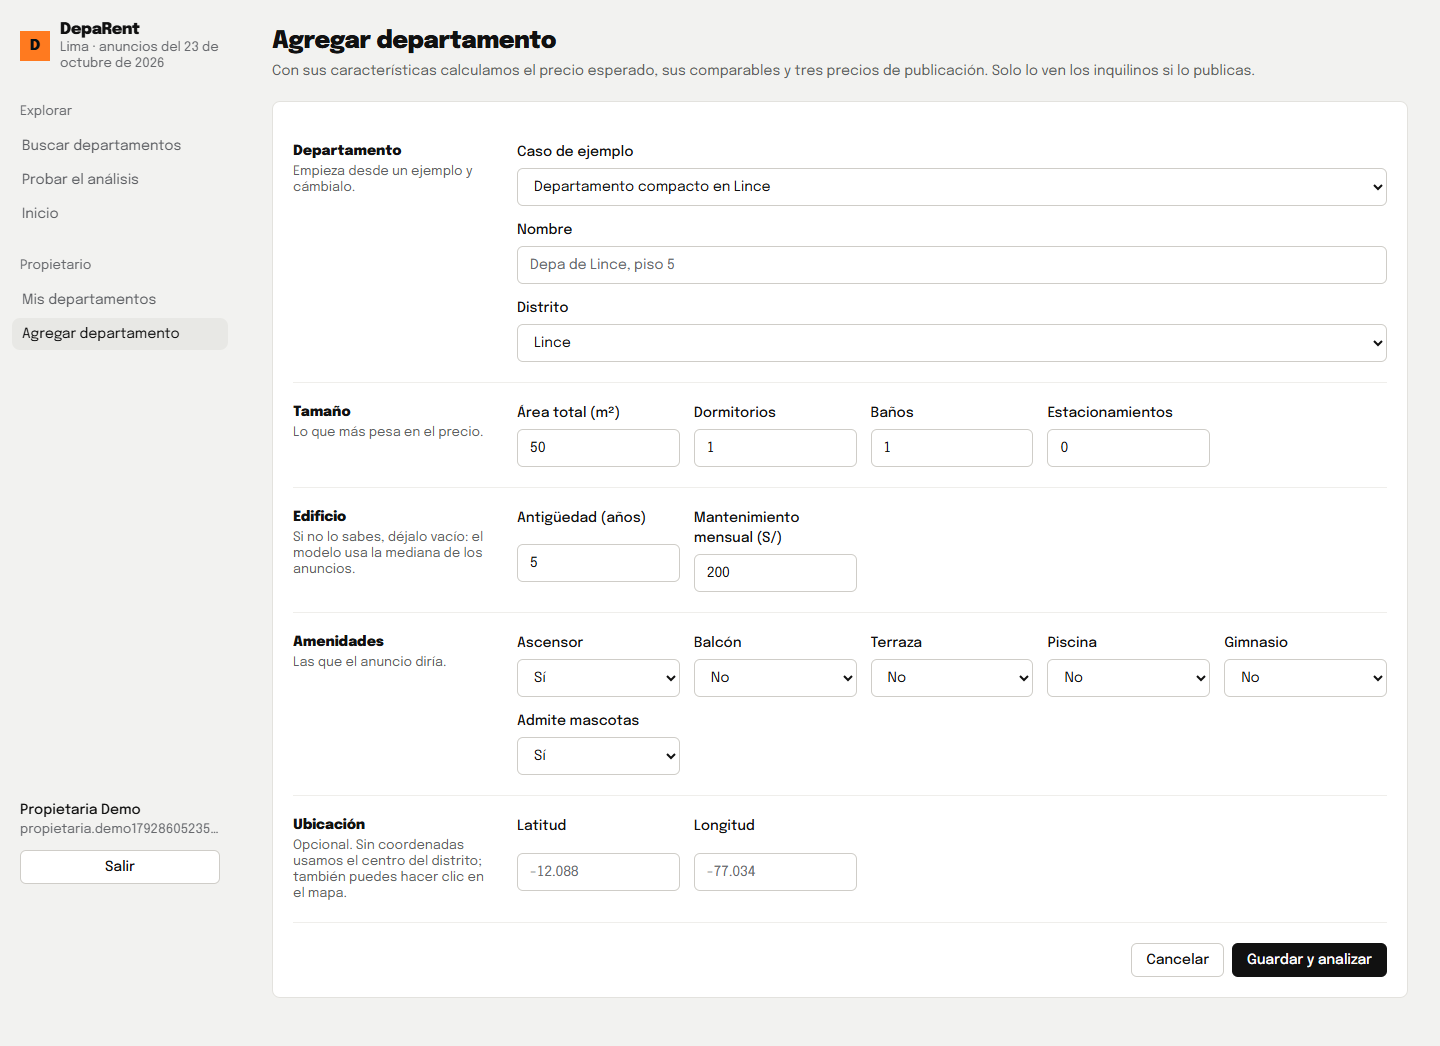
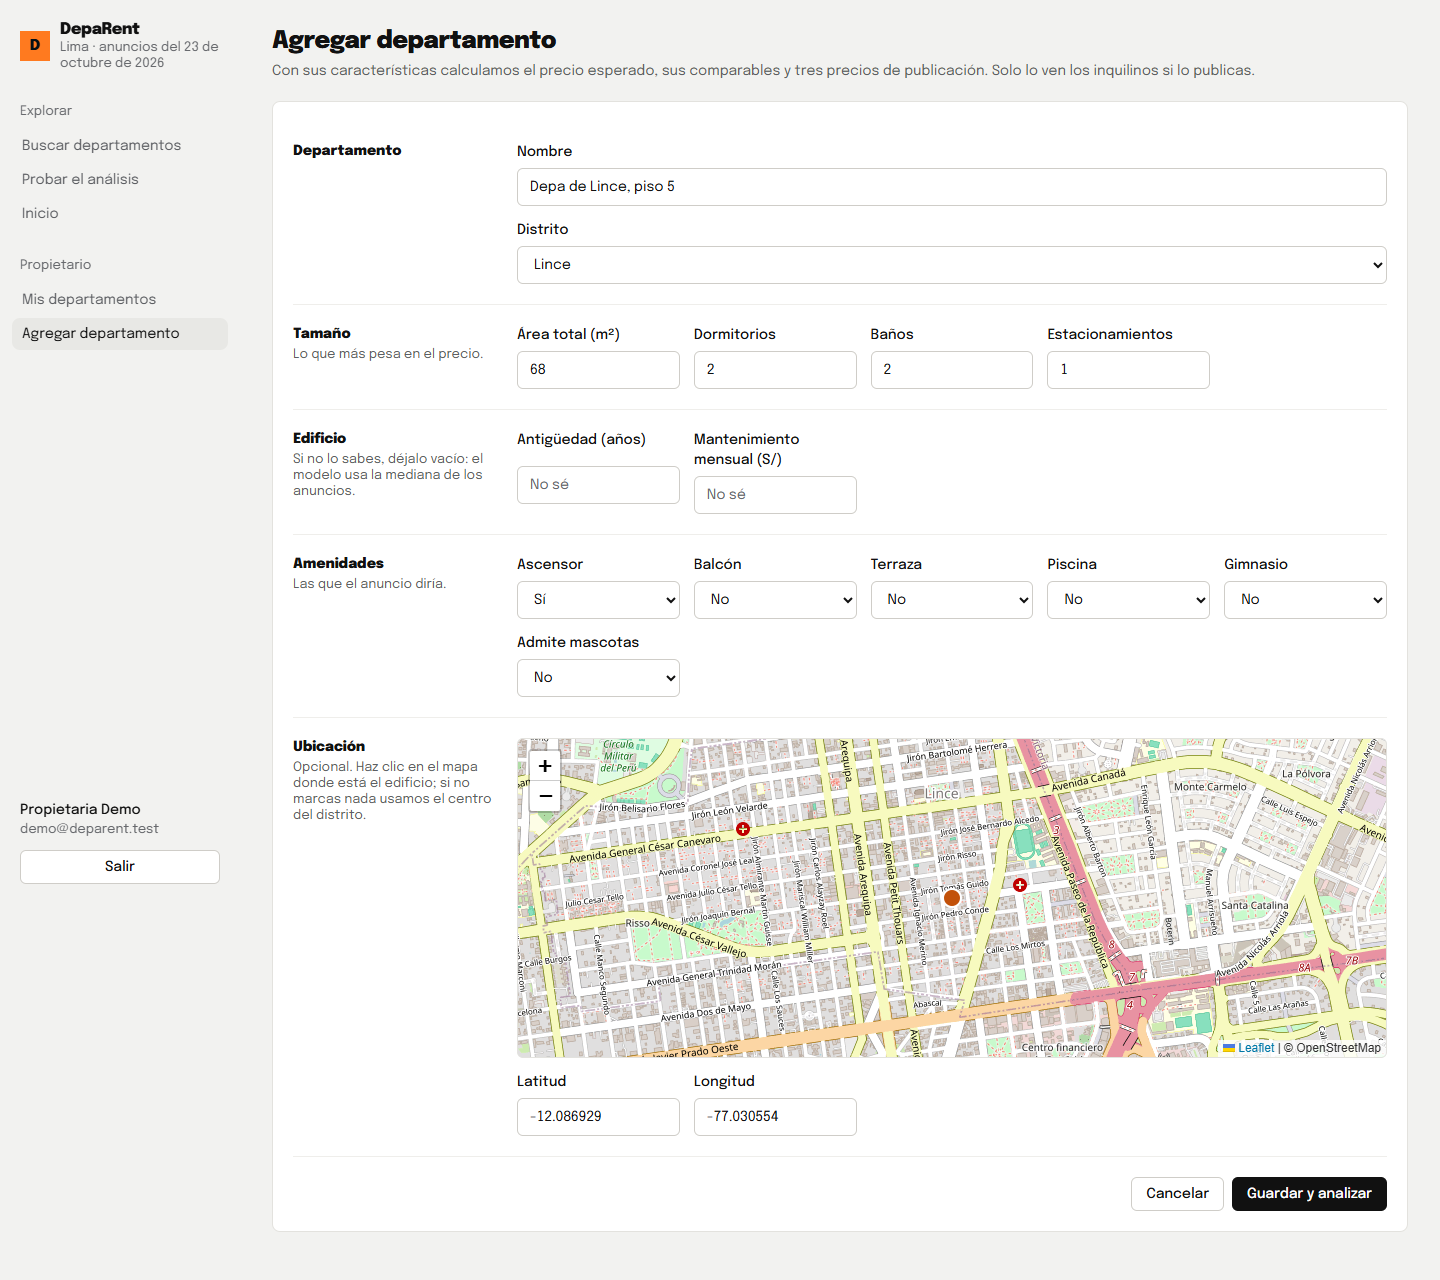
docs(week10): completar el reporte del prototipo, la URL desplegada y las capturas nuevas
PrototypeReport.md pasa de plantilla a reporte: funcionalidades, arquitectura, métricas, el ejercicio de Lince,
limitaciones (incluido el bloqueo 403 de la descarga diaria), desafíos y trabajo pendiente. README y
deployed_url.txt documentan Neon y DATABASE_URL.

diff --git a/deliveries/week10/PrototypeReport.md b/deliveries/week10/PrototypeReport.md
@@ -1,56 +1,139 @@
 # Prototype Report — DepaRent (Semana 10)
 
+Prototipo desplegado: **https://deparent.onrender.com** · Código: `deliveries/week10/` · Fecha de este reporte: 25-oct-2026.
+
 ## 1. Resumen
-_2–3 párrafos: qué demuestra el prototipo, con qué datos y qué flujo principal cubre._
+DepaRent responde la pregunta que se hace un propietario de Lima antes de publicar su departamento: **¿a cuánto lo
+alquilo?** El propietario describe el departamento (distrito, área, dormitorios, baños, estacionamientos, antigüedad,
+mantenimiento, amenidades y ubicación) y recibe un precio esperado con su rango, los anuncios más parecidos, la
+accesibilidad a transporte, la tendencia del distrito y tres precios de publicación. Puede guardar sus
+departamentos, publicarlos al precio que elija y recibir mensajes de inquilinos interesados.
+
+Del otro lado, un inquilino busca entre los anuncios del mercado y los publicados en DepaRent, con filtros por
+distrito, presupuesto, tamaño, amenidades y cercanía a paraderos, y ve en cada resultado si el precio pedido está
+por debajo, en línea o por encima de lo que estima el modelo.
+
+El prototipo trabaja con datos reales: 3,128 anuncios de Adondevivir y Urbania capturados el 14-sep-2026 (entrenamiento),
+un mercado de 3,055 anuncios únicos capturado el 23-oct-2026 (lo que ve la app), los paraderos de la ATU y 13 series
+trimestrales de precios del BCRP. El flujo principal completo (describir → analizar → guardar → publicar → ser
+encontrado → recibir un mensaje) funciona en la versión publicada.
 
 ## 2. Funcionalidades implementadas
-_Solo lo que realmente funciona hoy._
+Todo lo listado funciona hoy en la versión desplegada; las capturas están en `screenshots/`.
 
-| Funcionalidad | Estado | Ubicación |
-|---|---|---|
-| Entrada de características del inmueble | ☐ | `code/app.py`, `templates/` |
-| Preprocesamiento | ☐ | |
-| Perfil competitivo (K-Means) | ☐ | |
-| Accesibilidad (ATU) | ☐ | |
-| Precio esperado (HistGradientBoosting) | ☐ | `models/` |
-| Visualización de resultados | ☐ | |
+| Funcionalidad | Estado | Ubicación | Captura |
+|---|:-:|---|---|
+| Página de inicio con estimador en vivo, carta de alquileres y equipo | ☑ | `frontend/js/inicio.js` | `01`, `14` |
+| Registro, inicio de sesión y cierre de sesión de propietarios | ☑ | `code/cuentas.py`, `frontend/js/vistas.js` | `05` |
+| Agregar, editar y eliminar departamentos, con ubicación elegida en un mapa | ☑ | `frontend/js/formulario.js` | `06`, `07`, `13` |
+| Preprocesamiento (mismas reglas que la Semana 7) | ☑ | `code/preprocesar.py` | — |
+| 1 · Perfil competitivo (K-Means, k=4) y 8 comparables | ☑ | `code/perfil_competitivo.py` | `09` |
+| 2 · Accesibilidad a paraderos ATU (cKDTree) y mapa | ☑ | `code/accesibilidad.py` | `10` |
+| 3 · Precio esperado (HistGradientBoosting) con rango al 90 % | ☑ | `code/modelo.py`, `models/modelo_docente.joblib` | `08` |
+| 4 · Tendencia distrital (SARIMA sobre el BCRP) | ☑ | `code/tendencia.py` | `11` |
+| 5 · Tres precios de publicación (competitivo, equilibrado, renta superior) | ☑ | `code/escenarios_precio.py` | `08` |
+| 6 · Simulador de mejoras y exploración del área | ☑ | `code/escenarios.py`, `code/laboratorio_area.py` | `12` |
+| Publicar y retirar un departamento | ☑ | `code/api.py` | `18` |
+| Búsqueda para inquilinos con valoración del precio | ☑ | `code/busqueda.py` | `02`, `03`, `15` |
+| Ficha de anuncio con comparables y enlace al original | ☑ | `frontend/js/anuncio.js` | `17`, `20` |
+| «Me interesa»: el mensaje llega al propietario | ☑ | `code/cuentas.py` | `18`, `19` |
+| Prueba sin cuenta con tres casos de ejemplo | ☑ | `#/probar` | `04` |
+| Validación temporal con el mercado de octubre | ☑ | `code/validar_octubre.py`, `resultados/validacion_octubre/` | — |
+| Despliegue en Render con base de datos persistente (Postgres en Neon) | ☑ | `render.yaml`, `code/cuentas.py` | — |
+| Actualización diaria del mercado con GitHub Actions | ◐ | `.github/workflows/actualizar-mercado.yml` | ver §5 |
 
 ## 3. Arquitectura del sistema
 ```mermaid
 flowchart LR
-    U[Propietario] --> F[Frontend Flask / HTML]
-    F --> B[Backend app.py]
-    B --> P[Preprocesamiento]
-    P --> M1[K-Means]
-    P --> M2[Accesibilidad cKDTree]
-    P --> M3[HistGradientBoosting]
-    D[(data/)] --> P
-    MD[(models/)] --> M1
-    MD --> M3
-    M1 --> R[Resultado]
-    M2 --> R
-    M3 --> R
-    R --> F
+    P[Propietario] --> F
+    I[Inquilino] --> F
+    F["frontend/ · HTML + CSS + JS en módulos + Leaflet"] -- fetch JSON --> A["code/api.py · FastAPI"]
+    A --> PRE[preprocesar.py]
+    PRE --> M1[1 · K-Means + vecinos]
+    PRE --> M2[2 · Accesibilidad cKDTree]
+    PRE --> M3[3 · HistGradientBoosting]
+    M3 --> M4[4 · SARIMA BCRP]
+    M1 & M3 & M4 --> M5[5 · Precios de publicación]
+    M3 --> M6[6 · Simulador de mejoras]
+    A --> B[busqueda.py · mercado + publicados]
+    A --> C[cuentas.py]
+    C --> DB[("Postgres (Neon) en producción · SQLite en local")]
+    MOD[("models/*.joblib")] --> M1 & M3
+    DAT[("data/mercado.csv · week07/data/")] --> B & M2
+    GH[GitHub Actions diario] -. commit del mercado .-> DAT
 ```
-_Ajustar el diagrama a lo realmente implementado._
+
+- **Un solo servicio.** En Render, la API FastAPI sirve también el frontend estático; no hay servidor aparte.
+- **Modelos cargados una vez** al arrancar; el modelo 3 es la versión del profesor y la app verifica sus hashes.
+- **Cuentas.** Contraseñas con PBKDF2-SHA256 y sal propia; tokens de sesión guardados solo como hash, con
+  vencimiento de 7 días. Con `DATABASE_URL` se usa Postgres (Neon, gratuito y persistente); sin ella, SQLite local.
+- **Privacidad.** Ninguna pantalla muestra dirección, coordenadas exactas ni descripción de los anuncios de mercado;
+  la ficha solo enlaza al anuncio original. Al inquilino se le muestra el nombre de pila del propietario, no su correo.
 
 ## 4. Resultados y ejemplos de uso
-_Capturas de `screenshots/` y un ejemplo de entrada → salida._
+**Métricas del modelo de precio (prueba de septiembre, 629 anuncios, sin ajuste de hiperparámetros):**
+
+| Modelo | MAE (S/) | MAPE | R² |
+|---|--:|--:|--:|
+| Mediana global (línea base) | 1,216 | 37.8 % | −0.04 |
+| Mediana del distrito (línea base) | 993 | 26.6 % | 0.13 |
+| **HistGradientBoosting** | **553** | **18.8 %** | **0.76** |
+
+El rango al 90 % (radio de S/ 1,357 calibrado en 500 anuncios aparte) cubrió el 92.2 % de la prueba.
+
+**Validación temporal.** El mismo modelo congelado, sin reentrenar, sobre 1,712 anuncios nuevos de octubre:
+MAE S/ 512 (IC 95 %: 476–551), MAPE 16.4 %, R² 0.79. El modelo no se degradó en el mes siguiente.
+
+**Otros componentes.** K-Means k=4, silhouette 0.21 y estable entre semillas (ARI 1.0). SARIMA supera al naive
+estacional en 10 de 13 series del BCRP en los últimos 4 trimestres reservados.
+
+**Ejercicio del profesor (`code/EJERCICIO_FINAL.py`), distrito Lince:**
+
+| Distrito | n (prueba) | MAE calculado | n en la app | MAE en la app |
+|---|--:|--:|--:|--:|
+| Lince | 25 | S/ 284.90 | 25 | S/ 284.90 |
+
+Coincide con la aplicación. Error individual: mediana S/ 200.45, mínimo S/ 10.49, máximo S/ 895.47. En Lince el
+modelo se equivoca en promedio la mitad que en el conjunto de prueba (S/ 285 frente a S/ 553). El MAE es un promedio
+de anuncios de septiembre: no es el error garantizado para otra vivienda ni para meses posteriores.
+
+**Ejemplo de entrada → salida** (API desplegada, `POST /api/estimar`):
+Miraflores, 80 m², 2 dormitorios, 2 baños, 1 estacionamiento → precio esperado **S/ 3,592**, rango S/ 2,235–4,949,
+referencia distrital S/ 3,500, con 457 anuncios de entrenamiento en el distrito.
 
 ## 5. Limitaciones conocidas
-- Los precios son de oferta (asking price), no de cierre.
-- Captura única de datos (14-sep-2026).
-- Inventario de paraderos ATU de mayo de 2021.
-- BCRP cubre 12 distritos; el 16.3% de los departamentos usa el promedio general.
-- Clustering débil (silhouette 0.1776).
-- _Agregar las propias del prototipo._
+- **Precios de oferta**, no de cierre: el modelo aprende lo que piden los propietarios, no lo que se termina pagando.
+- **Rango amplio.** El radio del intervalo es global (±S/ 1,357): demasiado ancho para departamentos baratos y
+  ajustado para los de lujo.
+- **Distritos con pocos datos.** Con menos de 20 anuncios de prueba (por ejemplo, Ate con 3) el error no es fiable;
+  la app lo advierte.
+- **Paraderos ATU de mayo de 2021**; la red actual puede diferir.
+- **BCRP** no cubre todos los distritos: el 16.3 % de los departamentos usa la serie general.
+- **Clustering débil** (silhouette 0.21): los perfiles orientan, no separan mercados.
+- **Actualización diaria bloqueada.** Desde el 25-oct los portales responden 403 a los servidores de GitHub. La tarea
+  falla sin publicar nada y la app sigue con el mercado del 23-oct. El respaldo es la tarea programada local
+  (`scraper/programar_tarea.ps1`) más `git push`.
+- **Plan gratuito de Render.** El servicio se duerme tras 15 minutos sin visitas; la primera carga tarda 30–60 s.
+- **Prototipo académico.** No hay recuperación de contraseña, verificación de correo ni moderación de mensajes.
 
 ## 6. Desafíos técnicos
-_Ejemplos: ambigüedad de `estacionamientos`, integración de ATU, serialización de modelos, integración backend–modelos._
+- **Duplicados entre portales.** El mismo departamento aparece en Adondevivir y Urbania con otro id; se agruparon
+  posibles inmuebles (3,013 grupos) para que ninguno quede a la vez en entrenamiento y en prueba.
+- **Datos ambiguos o fuera de rango** (por ejemplo, `estacionamientos` o mantenimientos imposibles): se tratan como
+  no informados y el modelo usa la mediana, en vez de descartar el anuncio.
+- **Integrar la ATU** con miles de anuncios: búsqueda espacial con `cKDTree` en metros, no en grados.
+- **Modelos serializados reproducibles**: versiones exactas de dependencias y verificación de hashes al cargar.
+- **Persistencia en un servicio gratuito**: el disco de Render se borra en cada despliegue; se pasó a Postgres
+  en Neon sin cambiar la API, manteniendo SQLite para el desarrollo local.
+- **Validar sin hacer trampa**: en octubre se excluyeron los anuncios que ya estaban en septiembre (1,077 por id y
+  1,387 posibles duplicados) antes de medir el error.
 
 ## 7. Trabajo pendiente (hacia la Semana 12)
-1. SARIMA ajustado y validado.
-2. Motor de escenarios de precio y simulador de mejoras.
-3. Evaluación con baselines y evidencia de pruebas.
-4. Caso de estudio realista.
-5. Despliegue.
+1. Informe de evaluación (`EvaluationReport.md`): estrategia, métricas y comparación con las líneas base, con el
+   análisis de error por distrito y por rango de precio.
+2. Caso de estudio realista de un propietario y uno de un inquilino, recorridos en la app publicada.
+3. Intervalo con radio dependiente del precio (por ejemplo, por cuantiles), para que el rango sea útil en los extremos.
+4. Resolver la actualización del mercado: ejecutar la descarga desde la tarea local y publicar con `git push`, o
+   reducir la frecuencia.
+5. Observaciones de uso con 3–5 personas (propietarios e inquilinos) y ajustes de interfaz.
+6. Plan de tareas y responsables para las tres semanas finales.

diff --git a/deliveries/week10/README.md b/deliveries/week10/README.md
@@ -25,17 +25,17 @@ Los seis componentes analíticos:
 ```
 Navegador ──► frontend/ (HTML + CSS + JS en módulos, Leaflet)  ──fetch──►  code/api.py (FastAPI)
                                                                               ├─ modelos 1–6 (code/*.py)
-                                                                              ├─ cuentas.py ─► data/deparent.sqlite (usuarios y departamentos)
+                                                                              ├─ cuentas.py ─► Postgres (Neon) en producción · data/deparent.sqlite en local
                                                                               ├─ busqueda.py (anuncios de mercado + publicados)
                                                                               ├─ models/*.joblib
                                                                               ├─ resultados/ (métricas, pronósticos SARIMA)
                                                                               └─ ../week07/data/ (anuncios y paraderos procesados)
 ```
 Cuentas: contraseñas con PBKDF2-SHA256 y sal propia; tokens de sesión guardados solo como hash, con vencimiento de 7 días.
-La base `data/deparent.sqlite` se crea sola y no se sube a GitHub (`.gitignore`). Es un prototipo académico: no tiene
+En local la base `data/deparent.sqlite` se crea sola y no se sube a GitHub (`.gitignore`); en producción, con
+`DATABASE_URL`, se usa Postgres en Neon y las tablas también se crean solas. Es un prototipo académico: no tiene
 recuperación de contraseña ni verificación de correo.
-En local, la API también sirve el frontend. Para publicar, el frontend va a Netlify y la API a un servicio
-con Python, como Render (ver `deployed_url.txt`). `code/app.py` (Streamlit) se conserva como versión del profesor y respaldo.
+La API también sirve el frontend, en local y en Render (https://deparent.onrender.com, ver `deployed_url.txt`). `code/app.py` (Streamlit) se conserva como versión del profesor y respaldo.
 
 ## Contenido
 | Elemento | Ubicación |
@@ -47,9 +47,9 @@ con Python, como Render (ver `deployed_url.txt`). `code/app.py` (Streamlit) se c
 | Métricas y resultados | `resultados/` |
 | Ejercicio del profesor (n y MAE de un distrito) | `code/EJERCICIO_FINAL.py` |
 | Reporte del prototipo | `PrototypeReport.md` |
-| Presentación | `PresentationWeek10.pptx` / `.pdf` _(pendiente)_ |
+| Presentación | `PresentationWeek10.pptx` / `.pdf` |
 | Capturas / demo | `screenshots/` |
-| URL desplegada | `deployed_url.txt` _(pendiente)_ |
+| URL desplegada | https://deparent.onrender.com (`deployed_url.txt`) |
 
 ### Archivos de `code/`
 | Archivo | Función |
@@ -71,7 +71,7 @@ con Python, como Render (ver `deployed_url.txt`). `code/app.py` (Streamlit) se c
 
 ## Requisitos
 - Python 3.12 o 3.13 y conexión a internet la primera vez (para instalar dependencias; el mapa usa teselas de OpenStreetMap).
-- Dependencias exactas en `code/requirements.txt`.
+- Dependencias exactas en `code/requirements.txt`. Para usar Postgres en local (opcional) instalar también `psycopg[binary]`.
 
 ## Instalación y ejecución local (Windows, desde la raíz del repositorio)
 ```powershell
@@ -102,11 +102,11 @@ Versión Streamlit del profesor (opcional): `..\..\..\.venv\Scripts\python.exe -
 - Modelo 3: **no reentrenar**. Es la versión del profesor y la app verifica sus hashes.
 
 ## Despliegue
-Listo para Render con `render.yaml` (raíz del repo): un solo servicio que sirve la API y el frontend, con
+Publicado en **https://deparent.onrender.com**. Configurado para Render con `render.yaml` (raíz del repo): un solo servicio que sirve la API y el frontend, con
 `code/requirements-deploy.txt`. El mercado se actualiza solo cada día con GitHub Actions
 (`.github/workflows/actualizar-mercado.yml`). Pasos y límites del plan gratuito en `deployed_url.txt`.
 
 ## Credenciales y datos
 No se requieren variables de entorno ni credenciales para el uso local. Variables opcionales: `DEPARENT_DB` (ruta de
-la base SQLite) y, en despliegue, `DEPARENT_ORIGENES` (dominios que pueden llamar a la API). En un servicio gratuito
-como Render el disco no es persistente: las cuentas se borran al reiniciar, salvo que se use un disco o una base externa. Ninguna pantalla muestra dirección, coordenadas ni descripción de los anuncios; solo la ficha de un anuncio de mercado enlaza a su original en Adondevivir o Urbania (ver `PRODUCT.md`).
+la base SQLite), `DATABASE_URL` (cadena de conexión de Postgres; en Render apunta a Neon y se configura en el panel,
+nunca en el repositorio) y `DEPARENT_ORIGENES` (dominios que pueden llamar a la API, solo si el frontend va aparte). Ninguna pantalla muestra dirección, coordenadas ni descripción de los anuncios; solo la ficha de un anuncio de mercado enlaza a su original en Adondevivir o Urbania (ver `PRODUCT.md`).

diff --git a/deliveries/week10/screenshots/README.md b/deliveries/week10/screenshots/README.md
@@ -3,6 +3,7 @@
 Tomadas el 24-oct-2026 en Chrome, con la app local (mercado de la captura del 23-oct-2026) y una base de prueba: una cuenta "Propietaria Demo" con tres
 departamentos (Miraflores publicado; Lince y San Isidro como borradores). Escritorio a 1440 × 900 y teléfono a
 390 × 844. Con movimiento reducido, para que ninguna sección quede a medio revelar.
+`01` y `07` se volvieron a tomar el 25-oct-2026, con la sección «Quiénes somos» nueva y el mapa del formulario.
 
 | Archivo | Qué muestra |
 |---|---|
@@ -12,7 +13,7 @@ departamentos (Miraflores publicado; Lince y San Isidro como borradores). Escrit
 | `04_probar_formulario.png` | Probar el análisis sin cuenta: formulario por grupos |
 | `05_crear_cuenta.png` | Registro de propietario |
 | `06_mis_departamentos.png` | Lista del propietario con conteos (todos, publicados, borradores) |
-| `07_agregar_departamento.png` | Formulario para agregar un departamento |
+| `07_agregar_departamento.png` | Formulario para agregar un departamento, con la ubicación marcada en el mapa |
 | `08_detalle_resumen.png` | Detalle: precio esperado, regla de precios, precios de publicación, accesibilidad, perfil y tendencia |
 | `09_comparables.png` | Los 8 anuncios más parecidos |
 | `10_accesibilidad.png` | Mapa de paraderos ATU y distancias |
